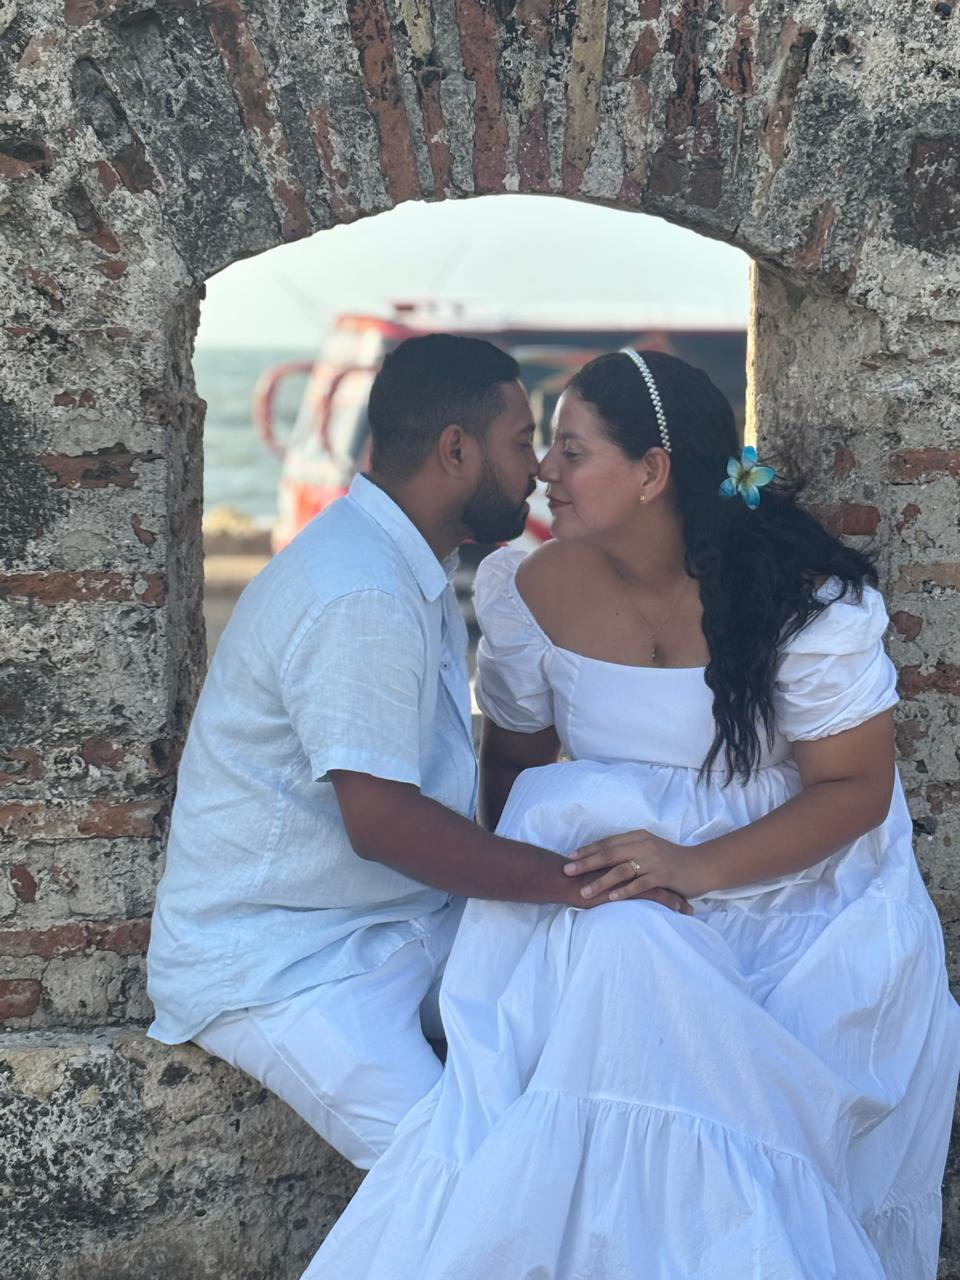
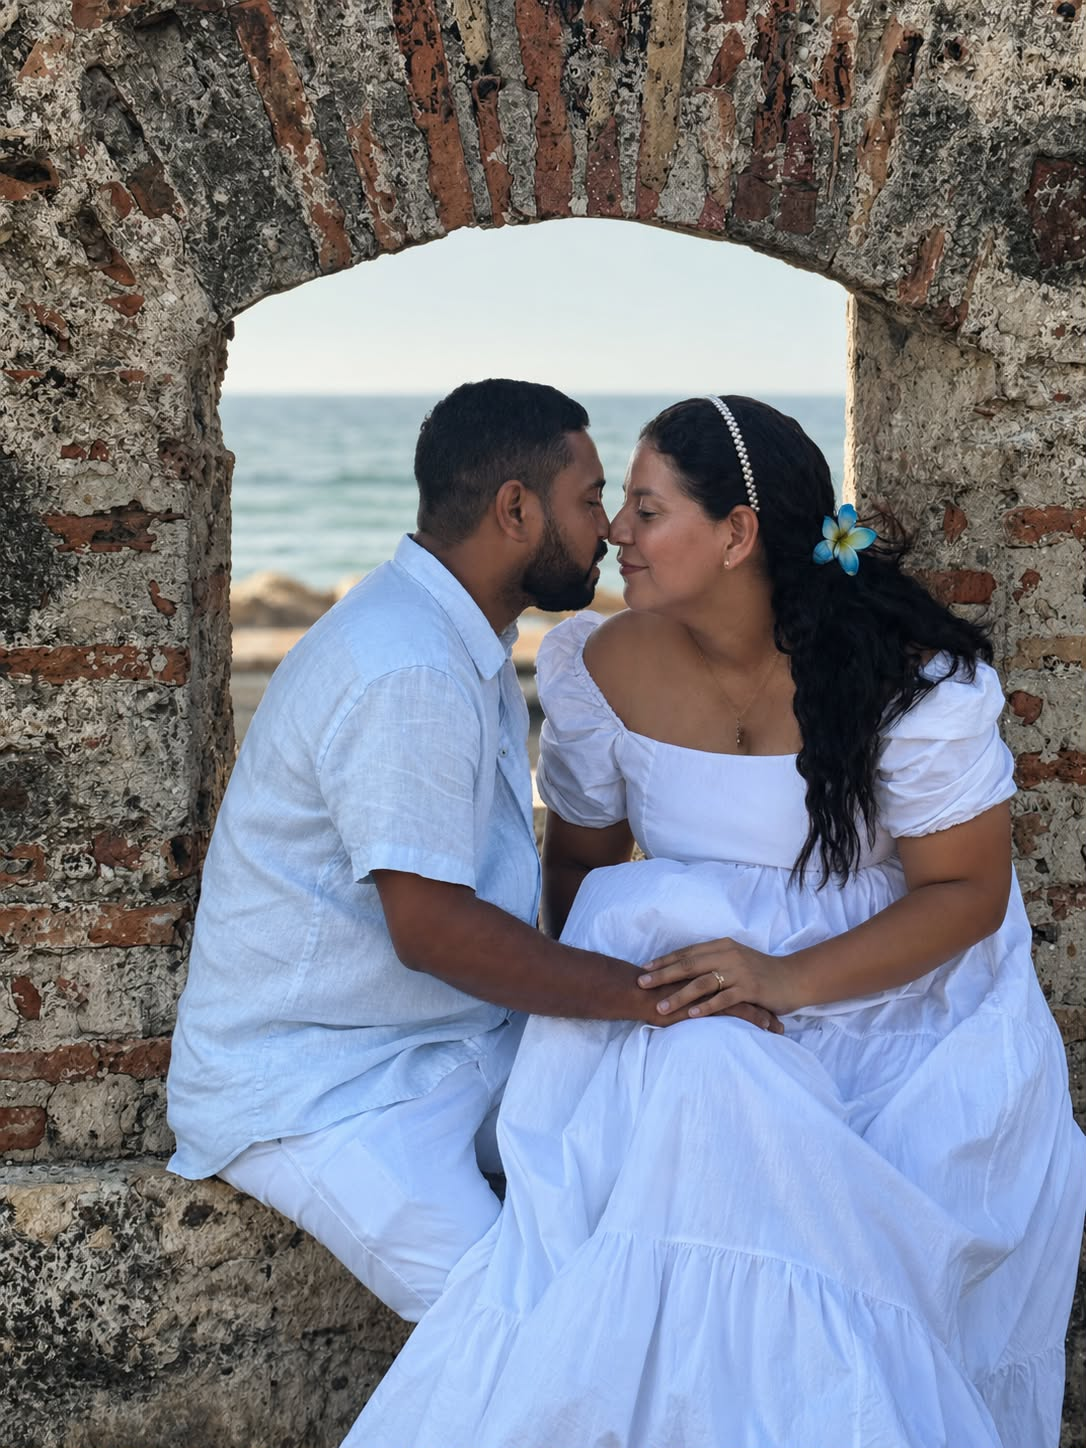
mejoras en fotos

diff --git a/index.html b/index.html
@@ -815,6 +815,7 @@ footer::before{
       <div class="gal-item"    style="--d:0ms"   onclick="openLb(5)"><img src="Fotos Matrimonio/WhatsApp Image 2026-05-10 at 4.57.12 PM4.jpeg" style="object-position:center 28%" alt=""><div class="gal-ov"><div class="gal-n">06</div><div class="gal-c">Caminando juntos</div></div></div>
       <div class="gal-item w2" style="--d:80ms"  onclick="openLb(6)"><img src="Fotos Matrimonio/WhatsApp Image 2026-05-10 at 4.57.12 PM5.jpeg" style="object-position:center 18%" alt=""><div class="gal-ov"><div class="gal-n">07</div><div class="gal-c">De la mano, siempre</div></div></div>
       <div class="gal-item w3" style="--d:0ms"   onclick="openLb(7)"><img src="Fotos Matrimonio/WhatsApp Image 2026-05-10 at 4.57.12 PM6.jpeg" style="object-position:center 38%" alt=""><div class="gal-ov"><div class="gal-n">08</div><div class="gal-c">Bailando en las calles de Cartagena</div></div></div>
+      <div class="gal-item w3" style="--d:80ms"  onclick="openLb(9)"><img src="Fotos Matrimonio/WhatsApp Image 2026-05-16 at 5.48.08 PM.jpeg" style="object-position:center 40%" alt=""><div class="gal-ov"><div class="gal-n">09</div><div class="gal-c">Nuestros anillos, nuestra promesa</div></div></div>
     </div>
   </div>
 
@@ -1055,6 +1056,7 @@ const PHOTOS=[
   {src:'Fotos Matrimonio/WhatsApp Image 2026-05-10 at 4.57.12 PM5.jpeg',cap:'De la mano, siempre'},
   {src:'Fotos Matrimonio/WhatsApp Image 2026-05-10 at 4.57.12 PM6.jpeg',cap:'Bailando en Cartagena'},
   {src:'Fotos Matrimonio/WhatsApp Image 2026-05-10 at 4.57.13 PM7.jpeg',cap:'Nuestro momento más especial ♥'},
+  {src:'Fotos Matrimonio/WhatsApp Image 2026-05-16 at 5.48.08 PM.jpeg', cap:'Nuestros anillos, nuestra promesa ♥'},
 ];
 const lbEl=document.getElementById('lb');
 const lbImg=document.getElementById('lb-img');
